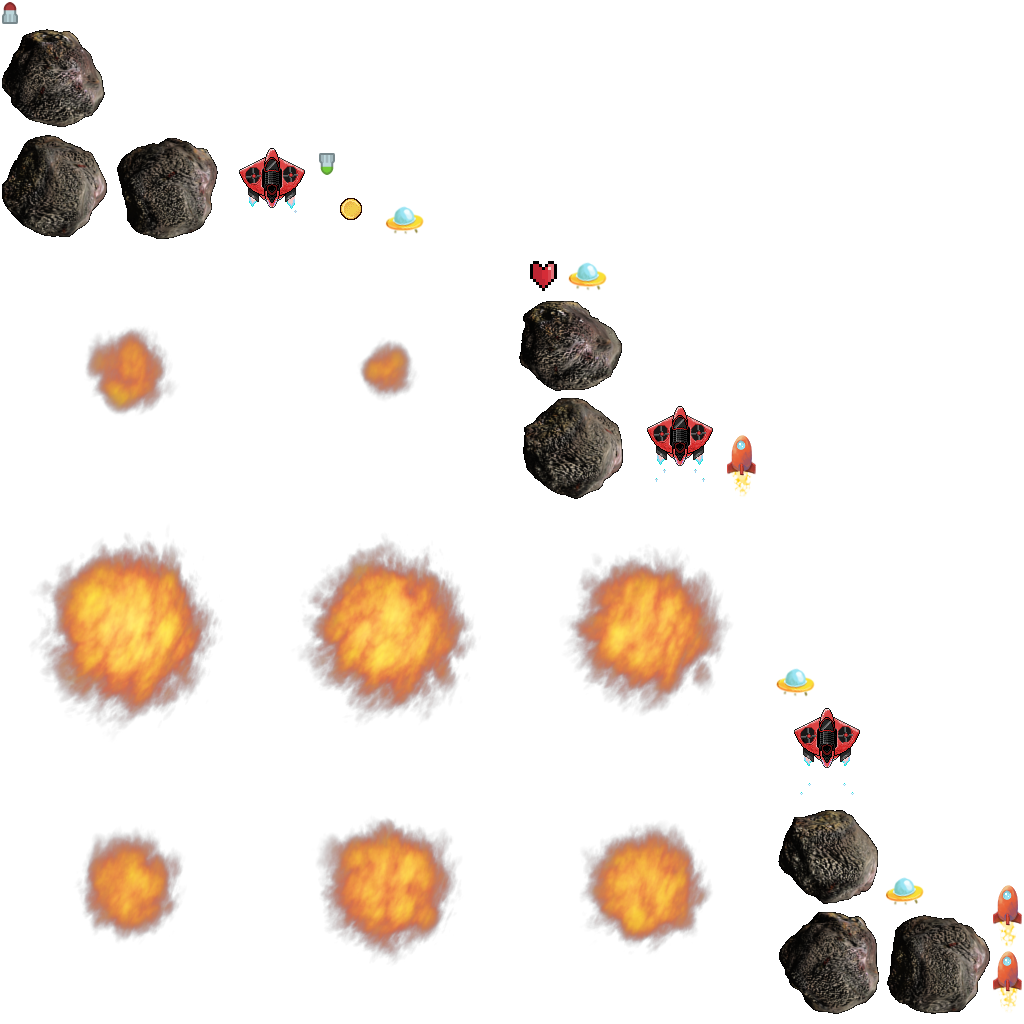
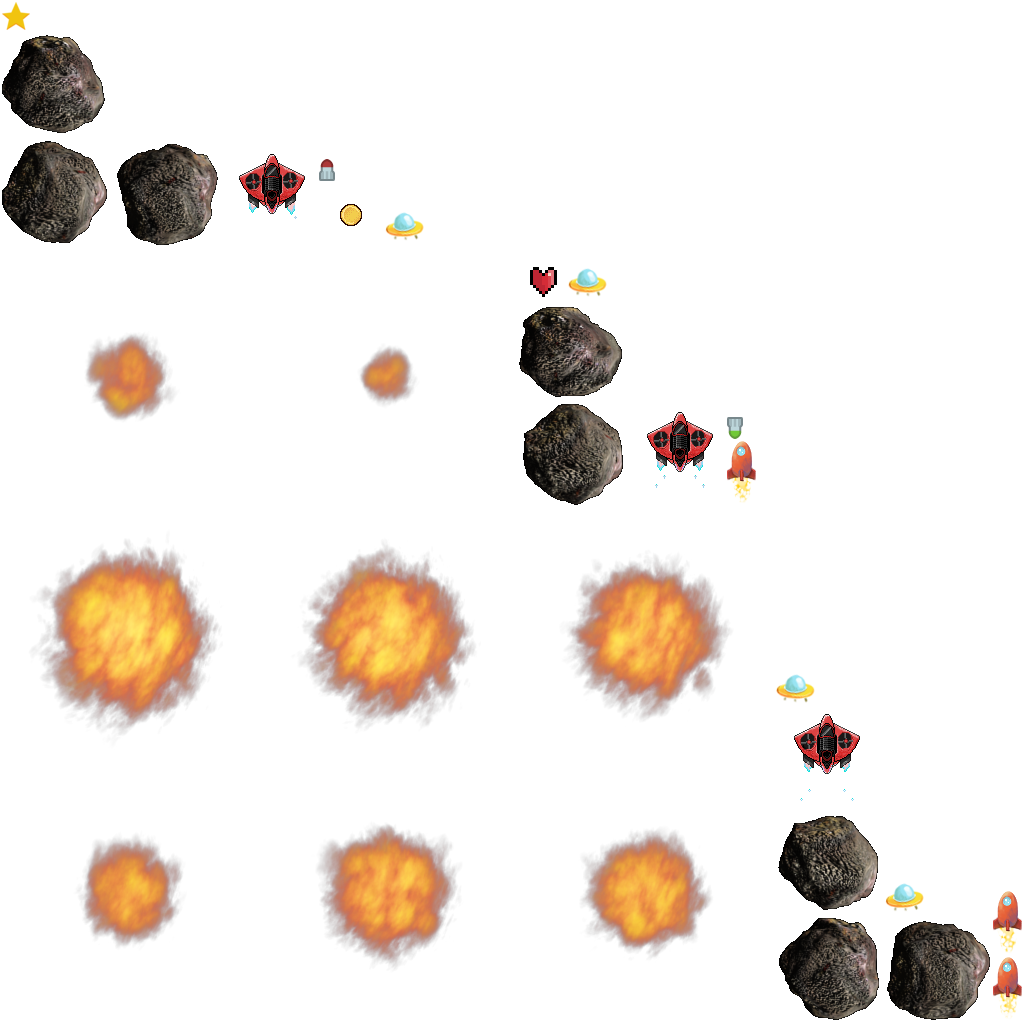
Add speed power up and his sound

diff --git a/core/src/com/svalero/spaceinvaders/manager/SpriteManager.java b/core/src/com/svalero/spaceinvaders/manager/SpriteManager.java
@@ -34,11 +34,16 @@ public class SpriteManager implements Disposable {
     public List<DoubleScorePowerUp> fallDoubleScore;
     private float doubleScorePowerUpTimer;
     private float doubleScorePowerUpInterval;
+    public List<SpeedPowerUp> fallSpeedPowerUp;
+    private float speedPowerUpTimer;
+    private float speedPowerUpInterval;
+
     EnemyFleet enemies;
     Sound shots;
     Sound explosion;
     Sound addLife;
     Sound doubleScore;
+    Sound star;
     private GameScreen gameScreen;
 
 
@@ -61,15 +66,19 @@ public class SpriteManager implements Disposable {
         explosion = Gdx.audio.newSound(Gdx.files.internal("sounds/effects/explosion.mp3"));
         addLife = Gdx.audio.newSound(Gdx.files.internal("sounds/effects/life.mp3"));
         doubleScore = Gdx.audio.newSound(Gdx.files.internal("sounds/effects/coin.mp3"));
+        star = Gdx.audio.newSound(Gdx.files.internal("sounds/effects/star.mp3"));
         fallAsteroids = new ArrayList<>();
         fallExtraLifes = new ArrayList<>();
         fallDoubleScore = new ArrayList<>();
+        fallSpeedPowerUp = new ArrayList<>();
         asteroidTimer = 0;
         asteroidInterval = MathUtils.random(5, 10);  //Intervalo de tiempo entre asteroide y asteroide
         lifePowerUpTimer = 0;
         lifePowerUpInterval = MathUtils.random(15, 20);
         doubleScorePowerUpTimer = 0;
         doubleScorePowerUpInterval = MathUtils.random(15, 20);
+        speedPowerUpTimer = 0;
+        speedPowerUpInterval = MathUtils.random(15, 20);
     }
 
     private void spawnAsteroids() {
@@ -91,11 +100,21 @@ public class SpriteManager implements Disposable {
     private void spawnDoubleScorePowerUp(){
         float screenWidth = Gdx.graphics.getWidth();
         float screenHeight = Gdx.graphics.getHeight();
-        TextureRegion doubleScoreTexture = new TextureRegion(ResourceManager.getTexture("score"));
+        TextureRegion doubleScoreTexture = new TextureRegion(ResourceManager.getTexture("coin"));
         float x = MathUtils.random(0, screenWidth - doubleScoreTexture.getRegionWidth());
         float y = screenHeight;
         float speed = 100;
         fallDoubleScore.add(new DoubleScorePowerUp(doubleScoreTexture, x, y, speed));
+    }
+
+    private void spawnSpeedPowerUp(){
+        float screenWidth = Gdx.graphics.getWidth();
+        float screenHeight = Gdx.graphics.getHeight();
+        TextureRegion speedTexture = new TextureRegion(ResourceManager.getTexture("star"));
+        float x = MathUtils.random(0, screenWidth - speedTexture.getRegionWidth());
+        float y = screenHeight;
+        float speed = 120;
+        fallSpeedPowerUp.add(new SpeedPowerUp(speedTexture, x, y, speed));
     }
 
     private void handleEnemyCollisions() {
@@ -223,6 +242,24 @@ public class SpriteManager implements Disposable {
         }
     }
 
+    private void handleCollisionWithSpeed(){
+        Rectangle playerBounds = player.getBounds();
+        Iterator<SpeedPowerUp> speedPowerUpIterator = fallSpeedPowerUp.iterator();
+
+        while (speedPowerUpIterator.hasNext()){
+            SpeedPowerUp speedPowerUp = speedPowerUpIterator.next();
+            Rectangle speedBound = speedPowerUp.getBounds();
+
+            if (playerBounds.overlaps(speedBound)){
+                speedPowerUpIterator.remove();
+                player.increaseSpeed();
+                if (ConfigurationManager.isSoundEnabled()){
+                    star.play();
+                }
+            }
+        }
+    }
+
     //Eventos de la pantalla
     private void handleGameScreeninputs(){
         if (Gdx.input.isKeyPressed(Input.Keys.ESCAPE)) {
@@ -240,7 +277,7 @@ public class SpriteManager implements Disposable {
     public void update(float dt){
         if (!pause){
             timeAsteroids(dt);
-            timeLifePowerUps(dt);
+            timePowerUps(dt);
 
             if (Gdx.input.isKeyJustPressed(Input.Keys.SPACE)){
                 player.fire();
@@ -265,11 +302,16 @@ public class SpriteManager implements Disposable {
                 powerUp.update(dt);
             }
 
+            for (SpeedPowerUp powerUp : fallSpeedPowerUp){
+                powerUp.update(dt);
+            }
+
             handlePlayerCollision();
             handleEnemyCollisions();
             handlePlayerCollisionWithAsteroid();
             handleCollisionWithExtraLife();
             handleCollisionWithDoubleScore();
+            handleCollisionWithSpeed();
 
             if (player.doubleScoreActive){
                 // Actualizamos el temporizador de doble puntuacion si está activo
@@ -295,7 +337,7 @@ public class SpriteManager implements Disposable {
     public void updateBoss(float dt){
         if (!pause){
             timeAsteroids(dt);
-            timeLifePowerUps(dt);
+            timePowerUps(dt);
 
 
             if (Gdx.input.isKeyJustPressed(Input.Keys.SPACE)){
@@ -321,6 +363,10 @@ public class SpriteManager implements Disposable {
                 powerUp.update(dt);
             }
 
+            for (SpeedPowerUp powerUp : fallSpeedPowerUp){
+                powerUp.update(dt);
+            }
+
             boss.fireMissile(dt);
             moveMissilesBoss(dt);
             boss.updateExplosionBoss(dt);
@@ -330,6 +376,7 @@ public class SpriteManager implements Disposable {
             handlePlayerCollisionWithAsteroid();
             handleCollisionWithExtraLife();
             handleCollisionWithDoubleScore();
+            handleCollisionWithSpeed();
 
             if (player.doubleScoreActive){
                 // Actualizamos el temporizador de doble puntuacion si está activo
@@ -357,9 +404,10 @@ public class SpriteManager implements Disposable {
         }
     }
 
-    private void timeLifePowerUps(float dt) {
+    private void timePowerUps(float dt) {
         lifePowerUpTimer += dt;
         doubleScorePowerUpTimer += dt;
+        speedPowerUpTimer += dt;
 
         if (lifePowerUpTimer >= lifePowerUpInterval){
             spawnLifePowerUp();
@@ -370,6 +418,11 @@ public class SpriteManager implements Disposable {
             spawnDoubleScorePowerUp();
             doubleScorePowerUpTimer = 0;
             doubleScorePowerUpInterval = MathUtils.random(15, 20);
+        }
+        if (speedPowerUpTimer >=  speedPowerUpInterval){
+            spawnSpeedPowerUp();
+            speedPowerUpTimer = 0;
+            speedPowerUpInterval = MathUtils.random(15, 20);
         }
     }
 

diff --git a/core/src/com/svalero/spaceinvaders/domain/Player.java b/core/src/com/svalero/spaceinvaders/domain/Player.java
@@ -10,6 +10,7 @@ import com.badlogic.gdx.graphics.g2d.SpriteBatch;
 import com.badlogic.gdx.math.Rectangle;
 import com.badlogic.gdx.math.Vector2;
 import com.badlogic.gdx.utils.Timer;
+import com.kotcrab.vis.ui.util.value.PrefHeightIfVisibleValue;
 import com.svalero.spaceinvaders.Utils.PreferencesUtils;
 import com.svalero.spaceinvaders.manager.ConfigurationManager;
 import com.svalero.spaceinvaders.manager.MusicManager;
@@ -35,6 +36,9 @@ public class Player extends Character{
     private boolean isAlive;
     public boolean doubleScoreActive;
     public float doubleScoreTimer;
+    private static final float DEFAULT_SPEED = 10;
+    private static final float INCREASED_SPEED = 25;
+    private float currentSpeed;
 
     public Player(String animationName, Vector2 position, float screenWidth, float screenHeight) {
         super(position, animationName);
@@ -48,11 +52,26 @@ public class Player extends Character{
         isAlive = true;
         doubleScoreTimer = 0;
         doubleScoreActive = false;
+        currentSpeed = DEFAULT_SPEED;
+    }
+
+    public void increaseSpeed() {
+        currentSpeed = INCREASED_SPEED; // Aumentamos velocidad
+        Timer.schedule(new Timer.Task() {
+            @Override
+            public void run() {
+                resetSpeed(); // Resetear velocidad después de 7 segundos
+            }
+        }, 7); // Duración de 7 segundos
+    }
+
+    public void resetSpeed(){
+        currentSpeed = DEFAULT_SPEED;
     }
 
     //Movimiento de la Nave
     public void manageInput(){
-        float speed = 20;
+        float speed = currentSpeed;
         double rightLimit = 1900.0;
 
         if (Gdx.input.isKeyPressed(Input.Keys.RIGHT) && rect.x < rightLimit - rect.width){
@@ -129,6 +148,8 @@ public class Player extends Character{
             this.score = 0; // Para que la puntuación nunca negativa
         }
     }
+
+
 
     public void die() {
         explosionPositionShip = position.cpy(); // Copiamos la posición actual de la nave para hacer la explosion en la misma posición

diff --git a/core/src/com/svalero/spaceinvaders/Utils/HudUtils.java b/core/src/com/svalero/spaceinvaders/Utils/HudUtils.java
@@ -40,7 +40,7 @@ public class HudUtils {
         livesImage.setPosition(getPositionForImage(livesLabel, livesImage), livesLabel.getY() - 15);
         stage.addActor(livesImage);
 
-        TextureRegion coinImage = new TextureRegion(ResourceManager.getTexture("score"));
+        TextureRegion coinImage = new TextureRegion(ResourceManager.getTexture("coin"));
         scoreImage = new Image(coinImage);
         scoreImage.setPosition(getPositionForImage(scoreLabel, scoreImage) - 10, scoreLabel.getY() - 25);
         stage.addActor(scoreImage);

diff --git a/core/src/com/svalero/spaceinvaders/domain/SpeedPowerUp.java b/core/src/com/svalero/spaceinvaders/domain/SpeedPowerUp.java
@@ -1,0 +1,14 @@
+package com.svalero.spaceinvaders.domain;
+
+import com.badlogic.gdx.graphics.g2d.TextureRegion;
+
+public class SpeedPowerUp extends PowerUp{
+
+    public SpeedPowerUp(TextureRegion textureRegion, float x, float y, float speed){
+        super(textureRegion, x, y, speed);
+    }
+
+    public void update(float dt){
+        position.y -= speed * dt;
+    }
+}

diff --git a/core/src/com/svalero/spaceinvaders/manager/RenderManager.java b/core/src/com/svalero/spaceinvaders/manager/RenderManager.java
@@ -58,6 +58,9 @@ public class RenderManager implements Disposable {
         for (DoubleScorePowerUp powerUp : spriteManager.fallDoubleScore){
             powerUp.draw(batch);
         }
+        for (SpeedPowerUp powerUp : spriteManager.fallSpeedPowerUp){
+            powerUp.draw(batch);
+        }
     }
 
     private void drawEnemies(float dt){
